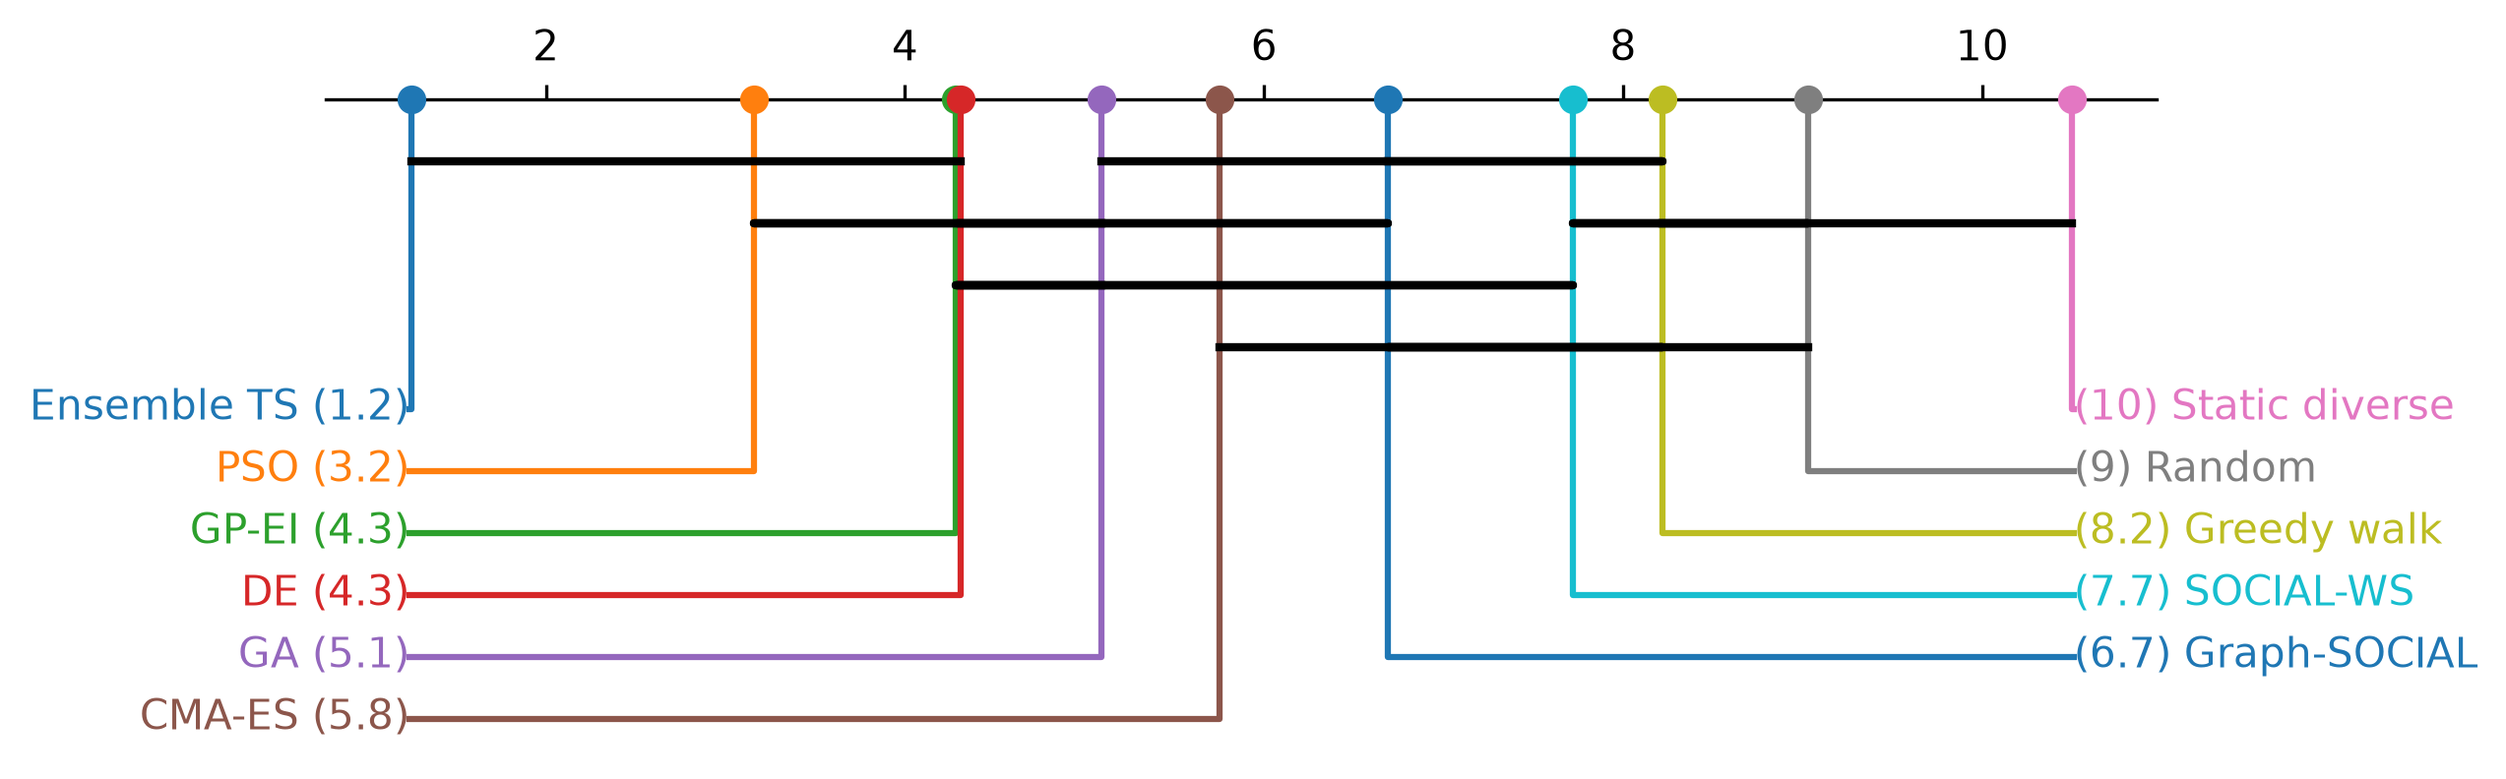
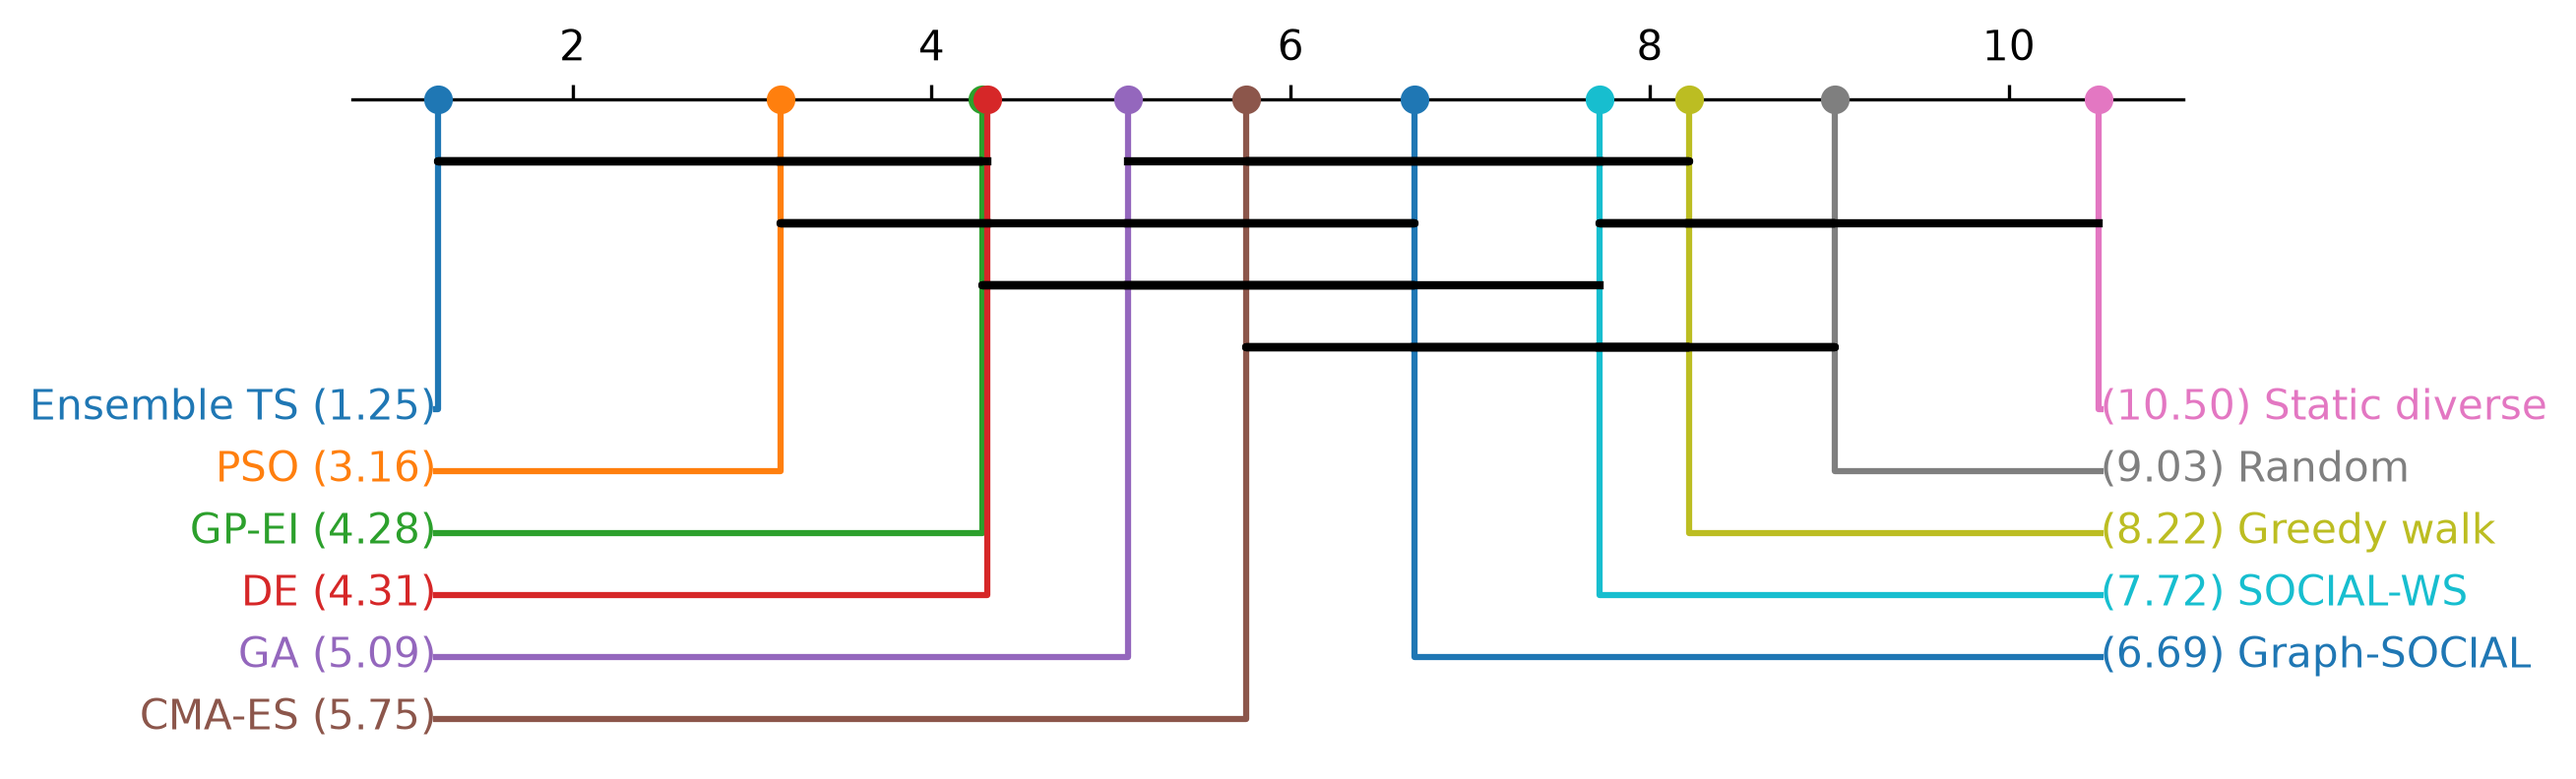
Reviewer round: equation refs, contraction wording, CD labels, minus signs, limitations, MOF-LENS volume, Table 1 caption

diff --git a/src/graphsocial/plots.py b/src/graphsocial/plots.py
@@ -152,7 +152,9 @@ def cd_diagram(ranks: pd.Series, nemenyi: pd.DataFrame, stem: Path) -> None:
     fig, ax = plt.subplots(figsize=(8, 3))
     ranks = ranks.rename(index=display)
     nemenyi = nemenyi.rename(index=display, columns=display)
-    sp.critical_difference_diagram(ranks, nemenyi, ax=ax)
+    # two decimals, as in the text (the library default .2g prints 10.50 as '10')
+    sp.critical_difference_diagram(ranks, nemenyi, ax=ax, label_fmt_left="{label} ({rank:.2f})",
+                                   label_fmt_right="({rank:.2f}) {label}")
     save(fig, stem)
 
 
